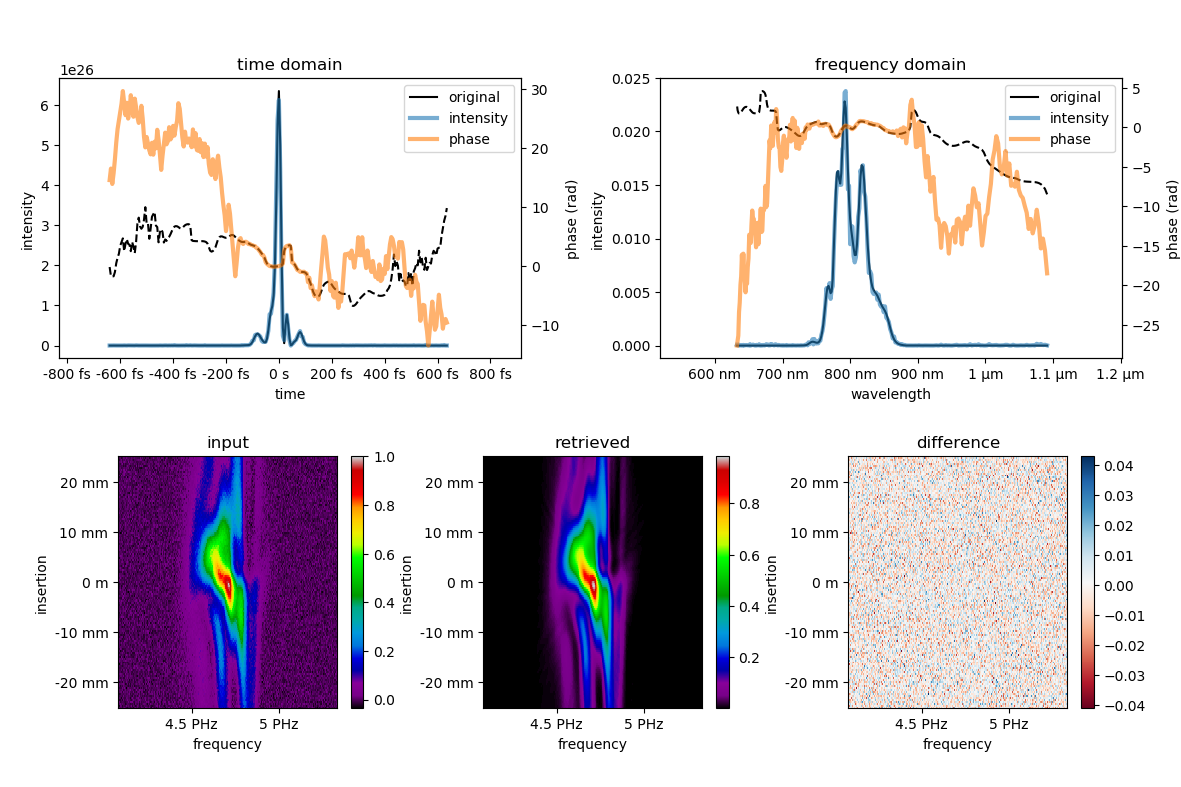
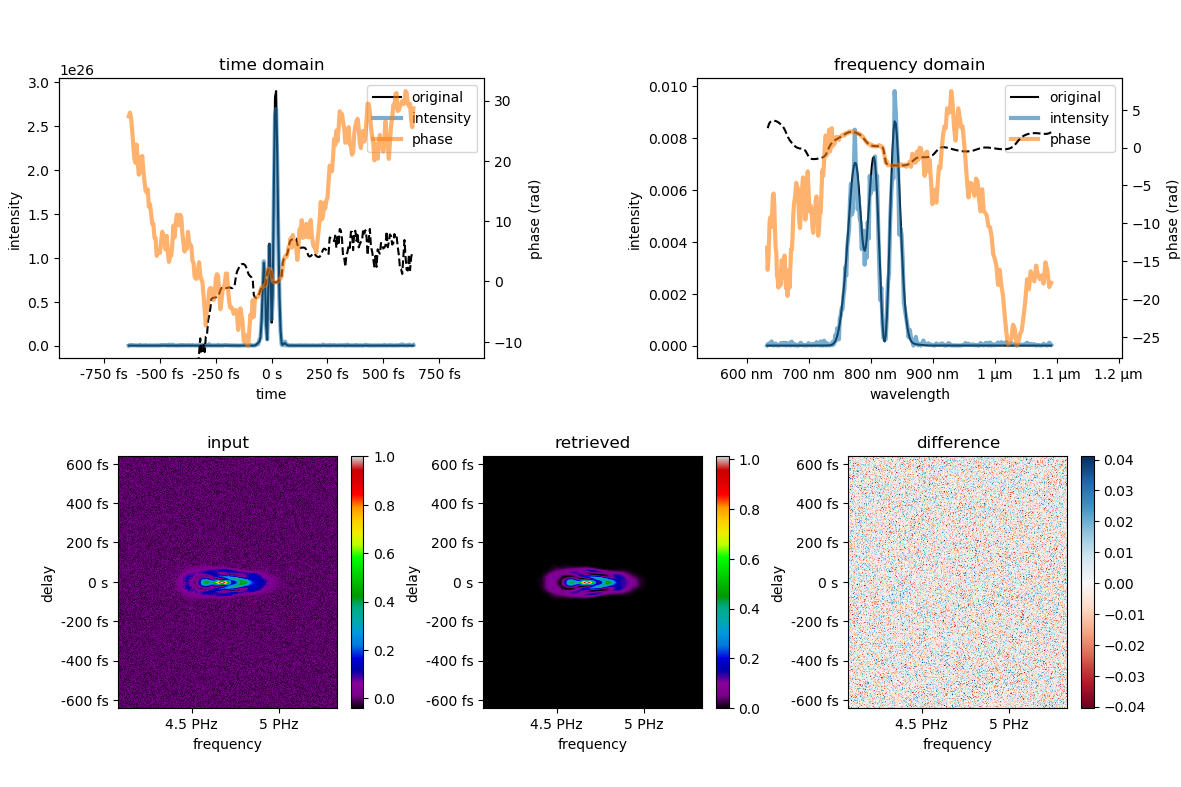
Remove dispersion scan
We decided to remove the support of dispersion scan from the publicly available version of the code. Contact us for a recent version of the code that works with d-scan.

diff --git a/pypret/pnps.py b/pypret/pnps.py
@@ -307,29 +307,17 @@ class IFROG(CollinearPNPS):
 
 class DSCAN(CollinearPNPS):
     """ Implements the dispersion scan method [Miranda2012a]_ [Miranda2012b]_.
+
+    Not implemented in the public version of the code. Please contact us
+    if you want to use pypret for d-scan measurements.
     """
     method = "dscan"
     parameter_name = "insertion"
     parameter_unit = "m"
 
     def __init__(self, pulse, process, material):
-        """ Creates the instance.
-
-        Parameters
-        ----------
-        pulse : Pulse instance
-            The pulse object that defines the simulation grid.
-        process : str
-            The nonlinear process used in the PNPS method.
-        material : BaseMaterial instance
-            The material of the glass wedges.
-        """
-        super().__init__(pulse, process, material=material)
-
-    def mask(self, insertion):
-        w = self.ft.w + self.w0
-        k = self.material.k(w, unit="om")
-        return np.exp(1.0j * k * insertion)
+        raise NotImplementedError("Not implemented in public version of the "
+                                  "code.")
 
 
 # =============================================================================

diff --git a/scripts/test_single_retrieval.py b/scripts/test_single_retrieval.py
@@ -23,8 +23,8 @@ scheme = ( # can be one of the following
         )
 
 pulses = pypret.load("pulse_bank.hdf5")
-res = benchmark_retrieval(pulses[1], scheme, "copra", repeat=1,
-                          verbose=True, maxiter=100,
-                          additive_noise=0.0)
+res = benchmark_retrieval(pulses[2], scheme, "copra", repeat=1,
+                          verbose=True, maxiter=300,
+                          additive_noise=0.01)
 rrp = RetrievalResultPlot(res.retrievals[0])
-#rrp.fig.savefig("result.png")
+rrp.fig.savefig("result.png")

diff --git a/pypret/autocorrelation.py b/pypret/autocorrelation.py
@@ -35,7 +35,7 @@ def autocorrelation(pulse, tau=None, background=False, fast=False):
 
     This expression is expanded in terms of the pulse envelope and then
     evaluated with help of the convolution theorem and the Fourier transform.
-    Specifically, it implements Eq. (9.7) on page 460 from [Diels]_.
+    Specifically, it implements Eq. (9.7) on page 460 from [Diels2006]_.
     '''
     ft = pulse.ft.forward
     ift = pulse.ft.backward

diff --git a/README.md b/README.md
@@ -4,6 +4,9 @@ This project aims to provide numerical algorithms for ultrashort laser pulse mea
 
 ![Example output](scripts/result.png?raw=true "Result")
 
+## dispersion scan
+We decided to remove the implementation of dispersion scan from the publicly available code. If you want to use pypret for d-scan please contact us.
+
 ## Notes
 
 This code is a complete re-implentation of the (rather messy) code used in our research. It was created with the expressive purpose to be well-documented and educational. The notation in the code tries to match the notation in the paper and references it. I would strongly recommend reading the publication before diving into the code.
@@ -29,11 +32,11 @@ pypret.random_pulse(pulse, 2.0)
 # plot the pulse
 pypret.PulsePlot(pulse)
 
-# simulate a d-scan measurement
-insertion = np.linspace(-0.025, 0.025, 128)  # insertion in m
-pnps = pypret.PNPS(pulse, "dscan", "shg", material=pypret.material.BK7)
+# simulate a frog measurement
+delay = np.linspace(-500e-15, 500e-15, 128)  # delay in s
+pnps = pypret.PNPS(pulse, "frog", "shg")
 # calculate the measurement trace
-pnps.calculate(pulse.spectrum, insertion)
+pnps.calculate(pulse.spectrum, delay)
 original_spectrum = pulse.spectrum
 # and plot it
 pypret.MeshDataPlot(pnps.trace)
@@ -50,11 +53,11 @@ ret.result(original_spectrum)
 The text output should look similar to this:
 ```
 Retrieval report
-trace error                    R = 2.07853378314943602e-07
+trace error                    R = 1.26951777571186456e-11
 min. trace error               R0 = 0.00000000000000000e+00
-                          R - R0 = 2.07853378314943602e-07
+                          R - R0 = 1.26951777571186456e-11
 
-pulse error                    ε = 3.24609262599545714e-05
+pulse error                    ε = 1.52280811825410699e-07
 ```
 This shows that the retrieval converged to the input trace within almost the numerical accuracy of the underlying calculations. This is, of course, only possible if no noise was added to the input data. Occasionally, the algorithm will not converge - in which case you would have to run it again.
 

diff --git a/docs/getting_started.rst b/docs/getting_started.rst
@@ -51,7 +51,7 @@ You can now instantiate a PNPS class with that pulse object::
     insertion = np.linspace(-0.025, 0.025, 128)  # insertion in m
     pnps = pypret.PNPS(pulse, "dscan", "shg", material=pypret.material.BK7)
     # calculate the measurement trace
-    pnps.calculate(pulse.spectrum, insertion)
+    pnps.calculate(pulse.spectrum, delay)
     original_spectrum = pulse.spectrum
     # and plot it
     pypret.MeshDataPlot(pnps.trace)
